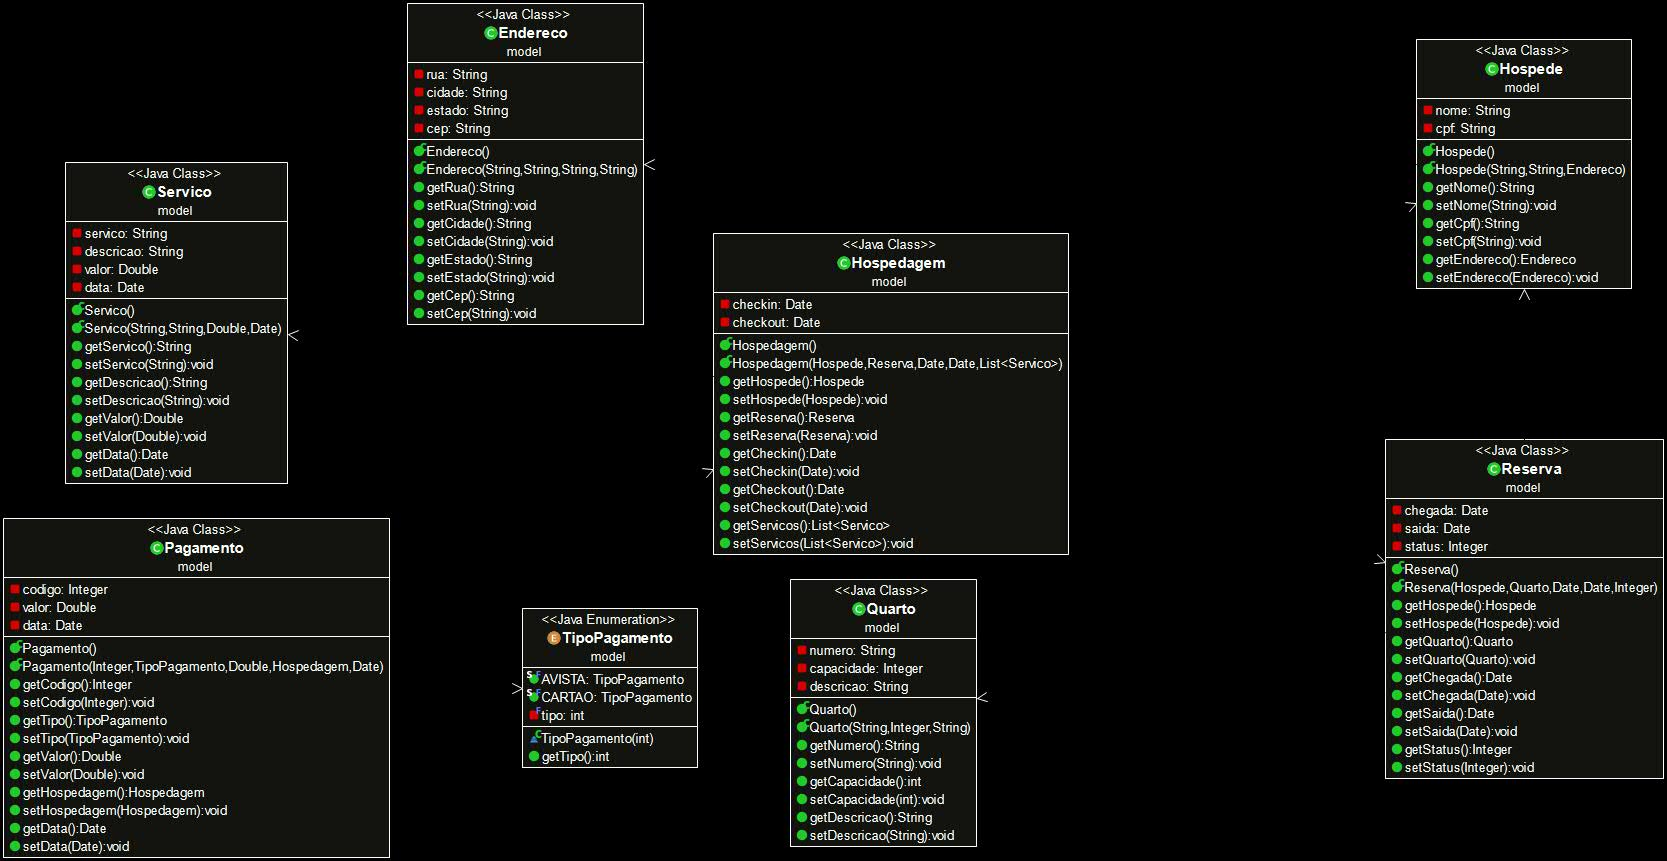
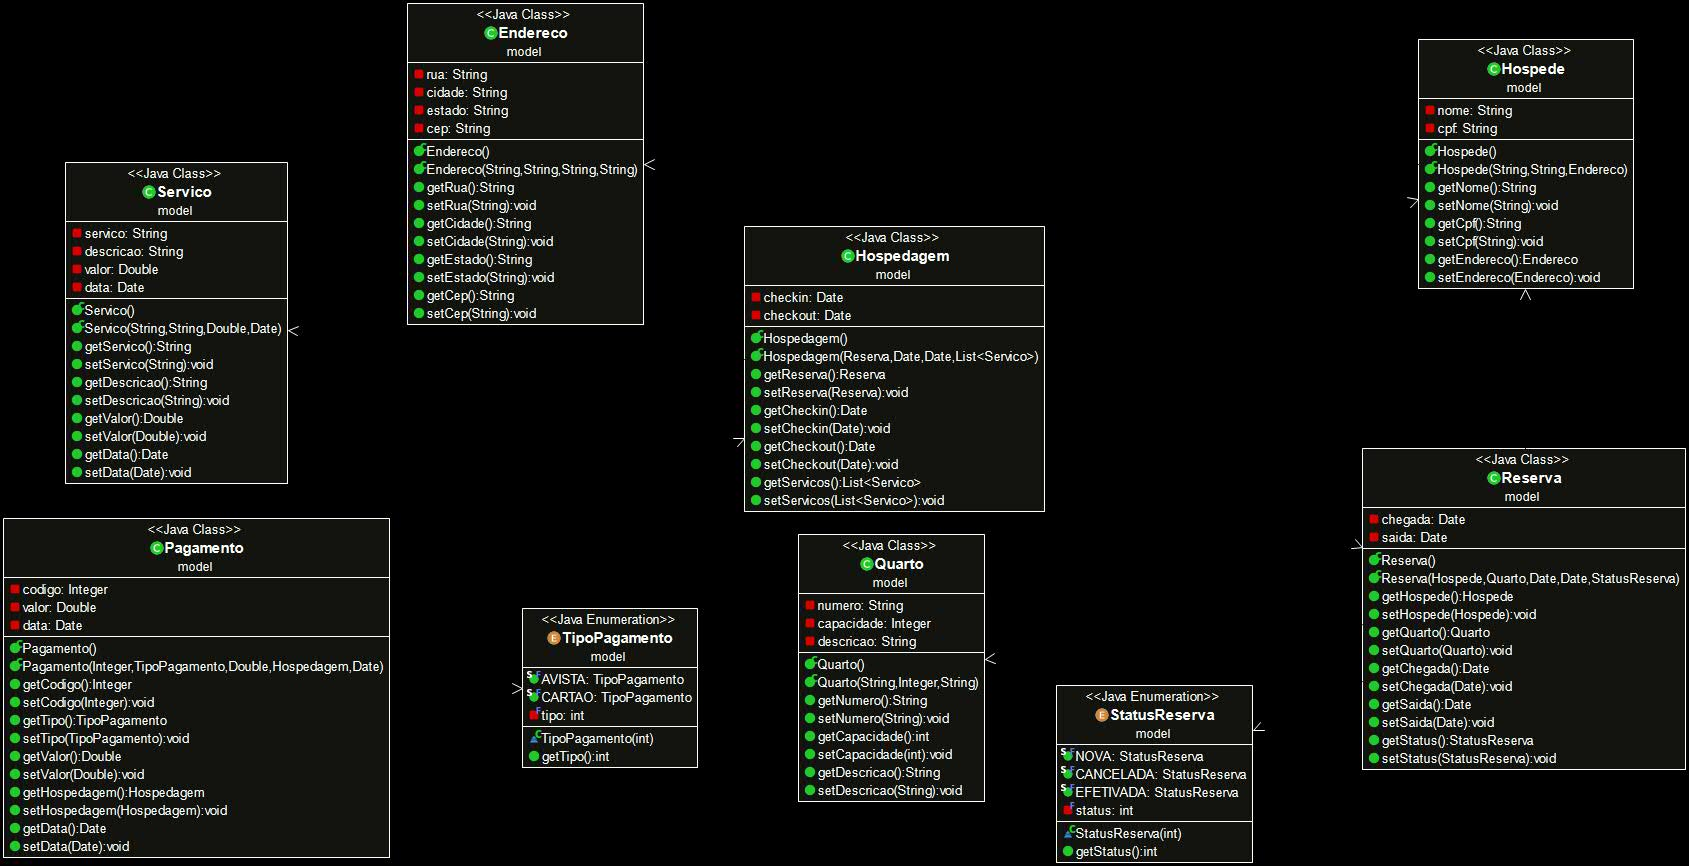
#04 Diagrama de Classes

diff --git a/GERENCIA_ME/src/model/Hospedagem.java b/GERENCIA_ME/src/model/Hospedagem.java
@@ -6,7 +6,6 @@ import java.util.List;
 
 public class Hospedagem {
 
-	private Hospede hospede;
 	private Reserva reserva;
 	private List<Servico> servicos = new ArrayList<Servico>();
 	private Date checkin;
@@ -14,21 +13,12 @@ public class Hospedagem {
 	
 	public Hospedagem() {}
 	
-	public Hospedagem(Hospede hospede, Reserva reserva, Date checkin, Date checkout, List<Servico> servicos) {
-		this.setHospede(hospede);
+	public Hospedagem(Reserva reserva, Date checkin, Date checkout, List<Servico> servicos) {
 		this.setReserva(reserva);
 		this.setCheckin(checkin);
 		this.setCheckout(checkout);
 		this.setServicos(servicos);
 		
-	}
-
-	public Hospede getHospede() {
-		return hospede;
-	}
-
-	public void setHospede(Hospede hospede) {
-		this.hospede = hospede;
 	}
 
 	public Reserva getReserva() {

diff --git a/GERENCIA_ME/src/model/Reserva.java b/GERENCIA_ME/src/model/Reserva.java
@@ -8,11 +8,11 @@ public class Reserva {
 	private Quarto quarto;
 	private Date chegada;
 	private Date saida;
-	private Integer status;
+	private StatusReserva status;
 	
 	public Reserva(){}
 	
-	public Reserva(Hospede hospede, Quarto quarto, Date chegada, Date saida, Integer status){
+	public Reserva(Hospede hospede, Quarto quarto, Date chegada, Date saida, StatusReserva status){
 		this.setHospede(hospede);
 		this.setQuarto(quarto);
 		this.setChegada(chegada);
@@ -52,11 +52,11 @@ public class Reserva {
 		this.saida = saida;
 	}
 
-	public Integer getStatus() {
+	public StatusReserva getStatus() {
 		return status;
 	}
 
-	public void setStatus(Integer status) {
+	public void setStatus(StatusReserva status) {
 		this.status = status;
 	}
 }

diff --git a/GERENCIA_ME/src/model/StatusReserva.java b/GERENCIA_ME/src/model/StatusReserva.java
@@ -1,0 +1,15 @@
+package model;
+
+public enum StatusReserva {
+	
+	NOVA(1), CANCELADA(2), EFETIVADA(3);
+    
+    private final int status;
+    StatusReserva(int opcao){
+        status = opcao;
+    }
+    public int getStatus(){
+        return status;
+    }
+    
+}
